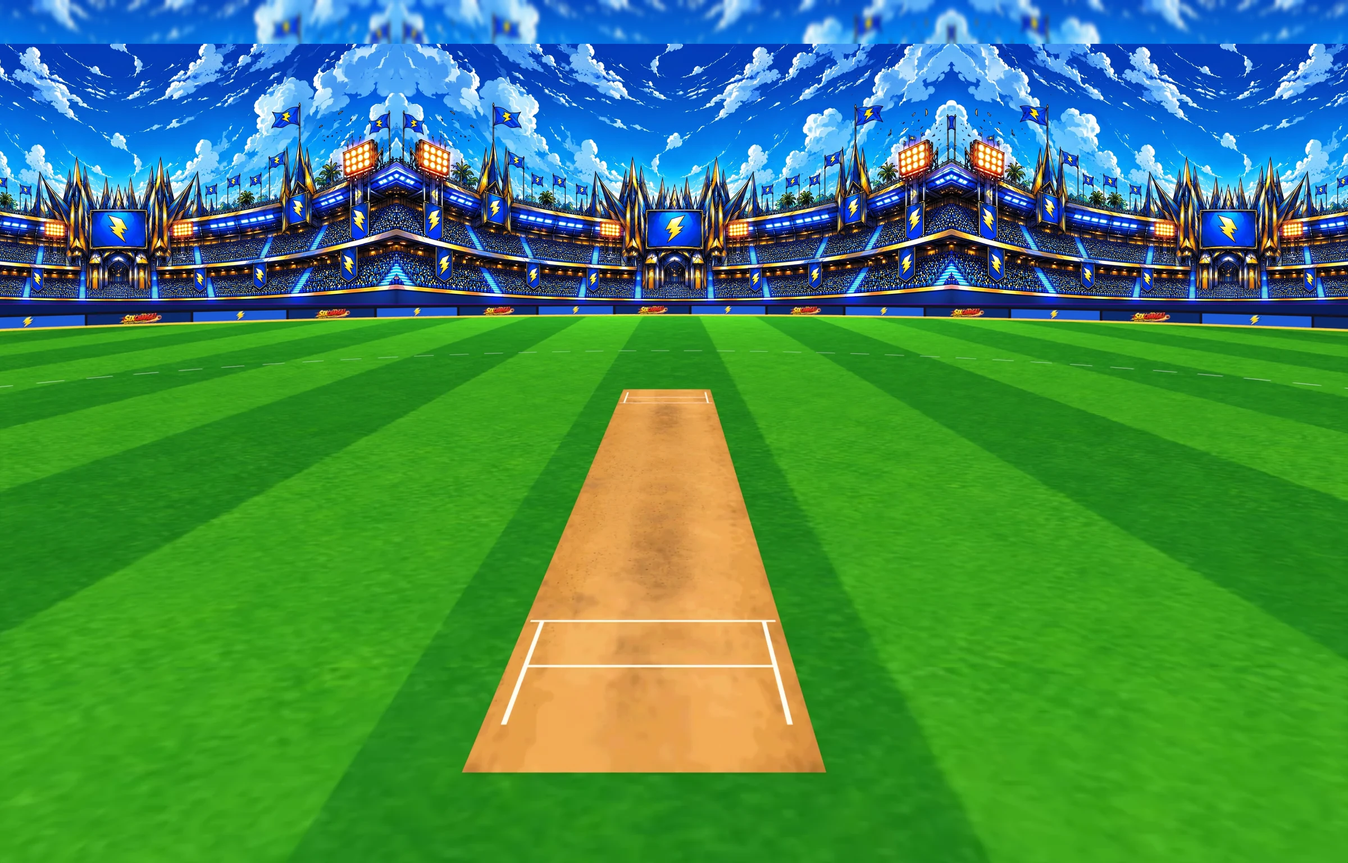
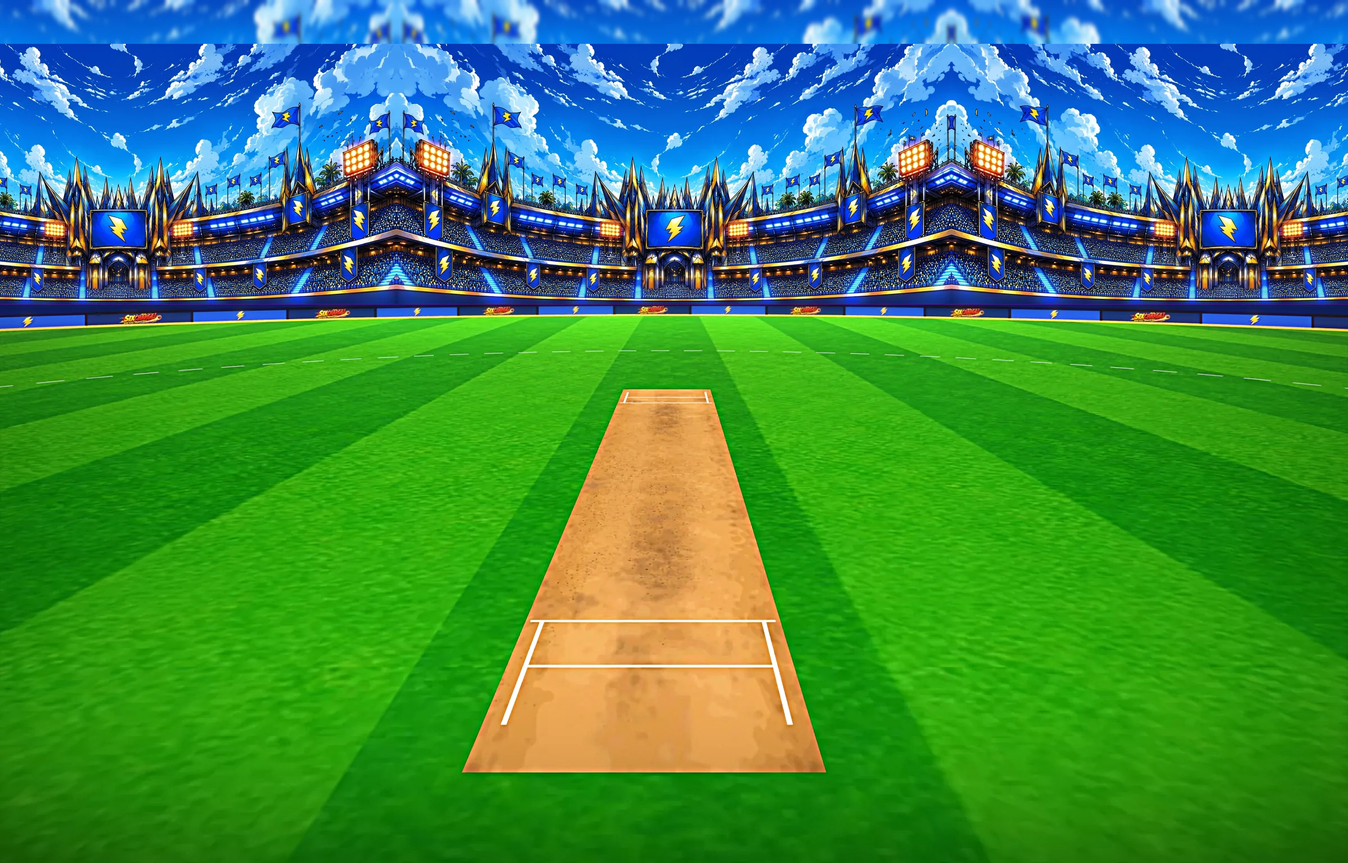
Thunderdome: give it the same finish as the other grounds (glow, crisper grass), on the original stands (preview, not yet published)
Claude-Session: https://claude.ai/code/session_01NK7tbrKg5PdA6fuyEUPXLd

diff --git a/tools/build_thunderdome_art.py b/tools/build_thunderdome_art.py
@@ -151,8 +151,7 @@ def build_view(name, v):
     row_struct = top + STRUCT.get(v['stand'], structure_top(st)) * p
     d94 = v['dir'] * ((CY + v['dir'] * 94) - v['cz'])
     roof_h = v['cy'] - (row_struct - v['above']) * d94 / v['f']
-    if CLUB != 'thunder':
-        out = grade(out, bt, stand)
+    out = grade(out, bt, stand)
     Image.fromarray(np.clip(out, 0, 255).astype(np.uint8)).save(os.path.join(OUT, f'view-{name}.webp'), 'WEBP', quality=90, method=6)
     print(name, 'painting', (pw, ph), 'boards row', bt, 'top', top, 'stand structure at', round(row_struct), 'roof h', round(roof_h, 1))
     x0 = W / 2 - pw / 2
